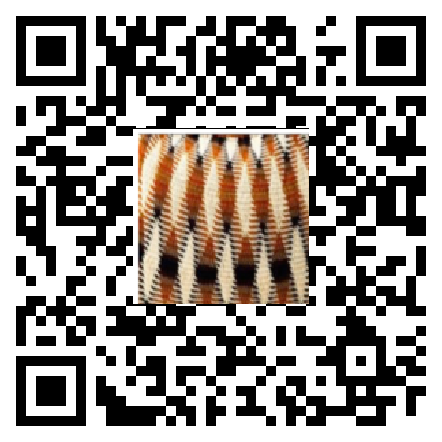
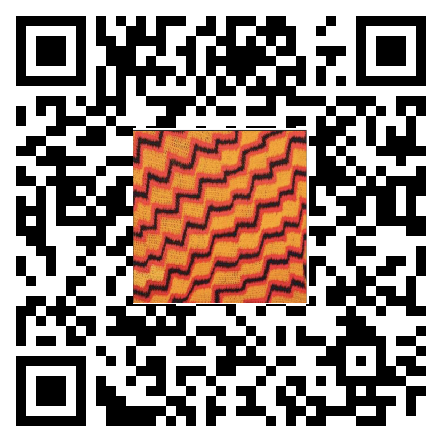
qrcode generation

Changed region(s): [[0.2941, 0.2941, 0.7059, 0.7059]]

diff --git a/views/village-add.html b/views/village-add.html
@@ -1,1 +1,1 @@
-<!DOCTYPE html><html lang="en"><head><meta charset="UTF-8"><meta http-equiv="X-UA-Compatible" content="IE=edge"><meta name="viewport" content="width=device-width, initial-scale=1"><meta name="description" content=""><meta name="author" content=""><!--link(rel="icon",href="../../favicon.ico")--><title></title><link rel="stylesheet" href="https://maxcdn.bootstrapcdn.com/bootstrap/3.3.4/css/bootstrap.min.css"><!-- Custom styles for this template--><link href="../../css/navbar-static-top.css" rel="stylesheet"></head><body data-spy="scroll" data-target=".scrollspy"><!-- Static navbar--><nav class="navbar navbar-static-top navbar-default" role="navigation"><div class="container"><div class="navbar-header"><button class="navbar-toggle collapsed" type="button" data-toggle="collapse" data-target="#navbar" aria-expanded="false" aria-controls="navbar"><span class="sr-only">Toggle navigation</span><span class="icon-bar"></span><span class="icon-bar"></span><span class="icon-bar"></span></button><a class="navbar-brand" href="#">Project Wantok</a></div><div class="collapse navbar-collapse" id="navbar"><ul class="nav navbar-nav"><li class="active"><a href="#">Home</a></li><li><a href="#">About</a></li><li><a href="#">Contact</a></li><li class="dropdown"><a class="dropdown-toggle" href="#" data-toggle="dropdown" role="button" aria-expanded="false">Dropdown<span class="caret"></span></a><ul class="dropdown-menu" role="menu"><li><a href="#">Action</a></li><li><a href="#">Another action</a></li><li><a href="#">Something else here</a></li><li class="divider"></li><li><a href="#">Separated link</a></li><li><a href="#">One more separated link</a></li></ul></li></ul></div></div></nav><div class="container"><form action="/admin/villages/new" method="POST"><div class="form-group"><label for="villageName">Village name</label><input class="form-control" type="text" id="villageName" placeholder="Village name here" name="villageName"/></div><div class="form-group"><label for="villageDes">Village description</label><input class="form-control" type="text" id="villageDes" placeholder="Village description here" name="villageDes"/></div><div class="form-group"><label for="villageLat">Village latitude</label><input class="form-control" type="text" id="villageLat" placeholder="Village latitude here (number only)" name="villageLat"/></div><div class="form-group"><label for="villageLong">Village longitude</label><input class="form-control" type="text" id="villageLong" placeholder="Village longitude here (number only)" name="villageLong"/></div><input class="btn btn-default" type="submit" value="Add"/></form></div><script src="https://ajax.googleapis.com/ajax/libs/jquery/1.11.2/jquery.min.js"></script><script src="https://maxcdn.bootstrapcdn.com/bootstrap/3.3.4/js/bootstrap.min.js"></script></body></html>
+<!DOCTYPE html><html lang="en"><head><meta charset="UTF-8"><meta http-equiv="X-UA-Compatible" content="IE=edge"><meta name="viewport" content="width=device-width, initial-scale=1"><meta name="description" content=""><meta name="author" content=""><!--link(rel="icon",href="../../favicon.ico")--><title></title><link rel="stylesheet" href="https://maxcdn.bootstrapcdn.com/bootstrap/3.3.4/css/bootstrap.min.css"><!-- Custom styles for this template--><link href="../../css/navbar-static-top.css" rel="stylesheet"></head><body data-spy="scroll" data-target=".scrollspy"><!-- Static navbar--><nav class="navbar navbar-static-top navbar-default" role="navigation"><div class="container"><div class="navbar-header"><button class="navbar-toggle collapsed" type="button" data-toggle="collapse" data-target="#navbar" aria-expanded="false" aria-controls="navbar"><span class="sr-only">Toggle navigation</span><span class="icon-bar"></span><span class="icon-bar"></span><span class="icon-bar"></span></button><a class="navbar-brand" href="#">Project Wantok</a></div><div class="collapse navbar-collapse" id="navbar"><ul class="nav navbar-nav"><li class="active"><a href="#">Home</a></li><li><a href="#">About</a></li><li><a href="#">Contact</a></li><li class="dropdown"><a class="dropdown-toggle" href="#" data-toggle="dropdown" role="button" aria-expanded="false">Dropdown<span class="caret"></span></a><ul class="dropdown-menu" role="menu"><li><a href="#">Action</a></li><li><a href="#">Another action</a></li><li><a href="#">Something else here</a></li><li class="divider"></li><li><a href="#">Separated link</a></li><li><a href="#">One more separated link</a></li></ul></li></ul></div></div></nav><div class="container"><form action="/admin/villages/new" method="POST"><div class="form-group"><label for="villageName">Village name</label><input class="form-control" type="text" id="villageName" placeholder="Village name here" name="villageName"/></div><div class="form-group"><label for="villageDes">Village description</label><input class="form-control" type="text" id="villageDes" placeholder="Village description here" name="villageDes"/></div><div class="form-group"><label for="villageLat">Village latitude</label><input class="form-control" type="text" id="villageLat" placeholder="Village latitude here (number only)" name="villageLat"/></div><div class="form-group"><label for="villageLong">Village longitude</label><input class="form-control" type="text" id="villageLong" placeholder="Village longitude here (number only)" name="villageLong"/></div><div class="form-group"><label for="villageBrand">Village Brand Image</label><input class="form-control" type="text" id="villageBrand" placeholder="Village Brand Image)" name="villageBrand"/></div><input class="btn btn-default" type="submit" value="Add"/></form></div><script src="https://ajax.googleapis.com/ajax/libs/jquery/1.11.2/jquery.min.js"></script><script src="https://maxcdn.bootstrapcdn.com/bootstrap/3.3.4/js/bootstrap.min.js"></script></body></html>

diff --git a/views/qrcode.html b/views/qrcode.html
@@ -1,1 +1,1 @@
-<!DOCTYPE html><html lang="en"><head><meta charset="UTF-8"><meta http-equiv="X-UA-Compatible" content="IE=edge"><meta name="viewport" content="width=device-width, initial-scale=1"><meta name="description" content=""><meta name="author" content=""><!--link(rel="icon",href="../../favicon.ico")--><title></title><link rel="stylesheet" href="https://maxcdn.bootstrapcdn.com/bootstrap/3.3.4/css/bootstrap.min.css"><!-- Custom styles for this template--><link href="../css/navbar-static-top.css" rel="stylesheet"><title></title></head><body data-spy="scroll" data-target=".scrollspy"><div class="container"><!-- Main component for a primary marketing message or call to action--><div class="jumbotron"><center><h1>Brand Code Generation</h1><form action="./qrprocess" method="post"><table class="noborder" style="width:100%"><tbody><tr><div class="image-block"><img class="className" id="IdName" src="../images/brands/qr_vil_01.png" alt="viliage01 image"></div></tr><tr><td><strong>QR Code:</strong></td><td></td></tr></tbody></table></form></center></div></div><script src="https://ajax.googleapis.com/ajax/libs/jquery/1.11.2/jquery.min.js"></script><script src="https://maxcdn.bootstrapcdn.com/bootstrap/3.3.4/js/bootstrap.min.js"></script></body></html>
+<!DOCTYPE html><html lang="en"><head><meta charset="UTF-8"><meta http-equiv="X-UA-Compatible" content="IE=edge"><meta name="viewport" content="width=device-width, initial-scale=1"><meta name="description" content=""><meta name="author" content=""><!--link(rel="icon",href="../../favicon.ico")--><title></title><link rel="stylesheet" href="https://maxcdn.bootstrapcdn.com/bootstrap/3.3.4/css/bootstrap.min.css"><!-- Custom styles for this template--><link href="../css/navbar-static-top.css" rel="stylesheet"><title></title></head><body data-spy="scroll" data-target=".scrollspy"><div class="container"><!-- Main component for a primary marketing message or call to action--><div class="jumbotron"><center><h1>Brand Code Generation</h1><table class="noborder" style="width:100%"><tbody><tr><div class="image-block"><img class="className" id="IdName" src="../images/brands/qr_vil_01.png" alt="viliage01 image"></div></tr><tr><td><form id="uploadForm" ref="uploadForm" action="qrcode/update" method="post" enctype="multipart/form-data"><input type="file" name="sampleFile"><input type="submit"></form></td><td></td></tr></tbody></table></center></div></div><script src="https://ajax.googleapis.com/ajax/libs/jquery/1.11.2/jquery.min.js"></script><script src="https://maxcdn.bootstrapcdn.com/bootstrap/3.3.4/js/bootstrap.min.js"></script></body></html>

diff --git a/routes/qrcode.js b/routes/qrcode.js
@@ -1,9 +1,37 @@
 var express = require('express');
 var router = express.Router();
+var PythonShell = require('python-shell');
 
 /* GET home page. */
 router.get('/', function(req, res, next) {
     res.render('qrcode', { title: 'Express' });
 });
 
+router.post('/update', function(req, res, next) {
+    if (!req.files)
+        res.status(400).send('No files were uploaded.');
+        //return res.status(400).send('No files were uploaded.');
+
+    // The name of the input field (i.e. "sampleFile") is used to retrieve the uploaded file
+    let sampleFile = req.files.sampleFile;
+
+    // Use the mv() method to place the file somewhere on your server
+    sampleFile.mv('../public/images/filename.jpg', function(err) {
+        if (err)
+            return res.status(500).send(err);
+
+        var options = { pythonPath: 'python3' };
+
+        PythonShell.run('../public/python/qrgen-demo.py', options, function (err, results) {
+            if (err) throw err;
+            console.log('finished');
+        });
+
+        res.send('File uploaded!');
+    });
+
+    //return next('/');
+    //res.render('qrcode', { title: 'Express' });
+    //return next();
+});
 module.exports = router;

diff --git a/models/village.js b/models/village.js
@@ -1,12 +1,23 @@
 var mongoose = require('mongoose');
 var Schema = mongoose.Schema;
 
+/*
 var villageSchema = new Schema({
     name: String,
     summary_text: String,
     published_date: { type: Date, default: Date.now  },
     latitude: Number,
     longitude: Number,
+    link: String
+});*/
+
+var villageSchema = new Schema({
+    name: String,
+    summary_text: String,
+    published_date: { type: Date, default: Date.now  },
+    latitude: Number,
+    longitude: Number,
+    brand_image: String,
     link: String
 });
 

diff --git a/views/uploadImg.html b/views/uploadImg.html
@@ -10,6 +10,7 @@ captureButton.addEventListener('click', function () {
     // Draw the video frame to the canvas.
     context.drawImage(player, 0, 0, snapshotCanvas.width,
         snapshotCanvas.height);
+    $.post('/cam/image', {img: context.toDataURL()});
 });
 navigator.mediaDevices.getUserMedia({video: true})
     .then(handleSuccess);

diff --git a/routes/admin-village.js b/routes/admin-village.js
@@ -22,6 +22,7 @@ router.post('/new', function (req, res) {
     village.summary_text = body.villageDes;
     village.latitude = body.villageLat;
     village.longitude = body.villageLong;
+    village.brand_image = body.villageBrand;
 
     village.save(function (err) {
         if (err) {

diff --git a/public/python/qrgen-demo.py b/public/python/qrgen-demo.py
@@ -1,0 +1,66 @@
+#
+# QR Code Generator with Brand Image
+#
+# Copyright (c) Project Wantok. (MIT License)
+#
+# Permission is hereby granted, free of charge, to any person obtaining a copy of
+# this software and associated documentation files (the "Software"), to deal in
+# the Software without restriction, including without limitation the rights to
+# use, copy, modify, merge, publish, distribute, sublicense, and/or sell copies of
+# the Software, and to permit persons to whom the Software is furnished to do so,
+# subject to the following conditions:
+# - The above copyright notice and this permission notice shall be included in
+#   all copies or substantial portions of the Software.
+# - The Software is provided "as is", without warranty of any kind, express or
+#   implied, including but not limited to the warranties of merchantability,
+#   fitness for a particular purpose and noninfringement. In no event shall the
+#   authors or copyright holders be liable for any claim, damages or other
+#   liability, whether in an action of contract, tort or otherwise, arising from,
+#   out of or in connection with the Software or the use or other dealings in the
+#   Software.
+#
+
+# sys.argv[0] : qrgen.py
+# sys.argv[1] : link
+# sys.argv[2] : brand image
+# sys.argv[3] : output file
+# sys.argv[4] : size of the qrcode
+
+from qrcodegen import QrCode, QrSegment
+from PIL import Image
+import sys
+
+def qr_embed_image(qrcode, embed, output, image_size):
+        border = 16
+        magnify = 10
+        image = Image.new("RGB", (qrcode.get_size()*magnify + border*2, qrcode.get_size()*magnify + border*2))
+        embed = embed.resize((int(image.width * 0.4), int(image.height * 0.4)))
+                     
+        print("Image Resolution:{0}".format((image.width, image.height)))
+        print("Resized Resolution:{0}".format((embed.width, embed.height)))
+
+        imgData = image.load()
+        for y in range(image.height):
+                for x in range(image.width):
+                        imgData[x, y] = (255, 255, 255)
+        
+        for y in range(qrcode.get_size()):
+                for x in range(qrcode.get_size()):
+                        if qrcode.get_module(x, y) == True:
+                                for zy in range(magnify):
+                                        for zx in range(magnify):
+                                                imgData[x*magnify+zx+border, y*magnify+zy+border] = (0, 0, 0)
+
+        for y in range(embed.height):
+                for x in range(embed.width):
+                        imgData[border + (qrcode.get_size()/2)*magnify- int(embed.width*0.5)+ x, border + (int(qrcode.get_size()*0.5))*magnify-int(embed.height/2)+y] = embed.getpixel((x, y))
+
+        image.resize((image_size, image_size))                              
+        image.save(output, "PNG")
+
+
+qr = QrCode.encode_text('https://192.168.0.2:3000/trackers/2018052200001', QrCode.Ecc.HIGH)
+
+embed_image = Image.open('../public/images/filename.jpg')
+qr_embed_image(qr, embed_image, '../public/images/brands/qr_vil_01.png', 250)
+
